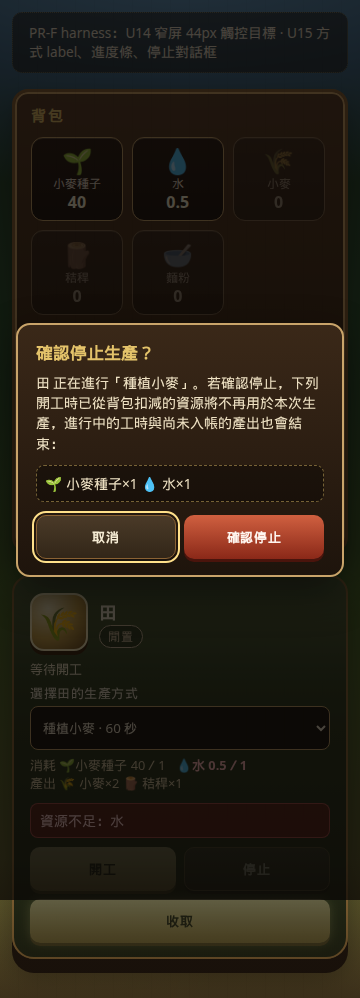
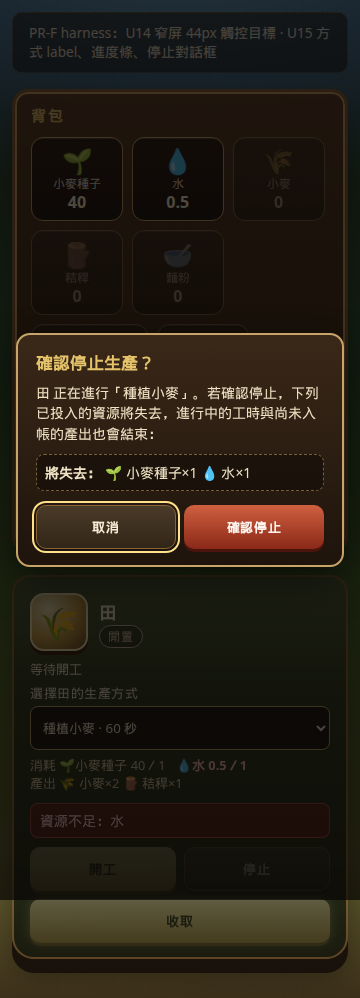
chore(web): stack tip cf2f53f PR screenshot captures and harness
Playwright captures at tip cf2f53f for draft PR comments (UX #4–#13, RL #15/#17, MK #18/#19).

Changed region(s): [[0.0306, 0.3106, 0.9472, 0.5902]]

diff --git a/apps/web/src/stack-tip-demo/main.tsx b/apps/web/src/stack-tip-demo/main.tsx
@@ -1,0 +1,185 @@
+import React, { StrictMode } from "react";
+import { createRoot } from "react-dom/client";
+import { BuildingCard } from "../components/BuildingCard";
+import { DepletionNotice } from "../components/DepletionNotice";
+import { TradingPostBuildingCard } from "../components/TradingPostBuildingCard";
+import { Inventory } from "../components/Inventory";
+import { DEMO_SERVER_REAL_TIME } from "../test/demoTime";
+import { hudGoldChipLabel } from "../market-feedback";
+import {
+  BRAND_DISPLAY_NAME,
+  BRAND_SUBTITLE,
+  GAME_TIME_CHIP_PREFIX,
+  OFFLINE_PROGRESS_HUD_CHIP,
+  timeScaleHudChip,
+} from "../productCopy";
+import { fmtGameClockChip } from "../format";
+import { buildingScrollAnchorId } from "../depletion-scroll";
+import "../style.css";
+import {
+  demoTradingPostBuilding,
+  demoWellBuilding,
+  depletedWithGoldInventory,
+  drawWaterMethod,
+  marketSnapshotGold10,
+} from "./fixtures";
+
+const shot = new URLSearchParams(window.location.search).get("shot") ?? "all";
+
+function HudGold10() {
+  return (
+    <header className="hud" data-shot-id="hud-gold">
+      <div className="crest">
+        <div className="crest-mark" aria-hidden>🌾</div>
+        <div>
+          <h1>{BRAND_DISPLAY_NAME}</h1>
+          <small>{BRAND_SUBTITLE}</small>
+        </div>
+      </div>
+      <div className="clock">
+        <span className="chip chip-muted">{fmtGameClockChip(86400, GAME_TIME_CHIP_PREFIX)}</span>
+        <span className="chip">{timeScaleHudChip(60)}</span>
+        <span className="chip chip-gold" data-testid="hud-gold-chip">
+          {hudGoldChipLabel(10)}
+        </span>
+        <span className="chip">{OFFLINE_PROGRESS_HUD_CHIP}</span>
+      </div>
+    </header>
+  );
+}
+
+function DepletionFullShot() {
+  return (
+    <div data-shot-id="depletion-ctas" data-screenshot-harness>
+      <HudGold10 />
+      <DepletionNotice
+        visible
+        onGoWell={() => undefined}
+        onGoSaveSeed={() => undefined}
+        onGoMarket={() => undefined}
+        marketCtaProminent
+      />
+      <Inventory inventory={depletedWithGoldInventory} />
+    </div>
+  );
+}
+
+function WellCardShot() {
+  return (
+    <div data-shot-id="well-card" data-screenshot-harness className="world">
+      <p className="banner banner-muted">水井建築卡 · 汲水方式（stack tip cf2f53f）</p>
+      <section className="settlement" style={{ maxWidth: 520, margin: "1rem" }}>
+        <BuildingCard
+          building={demoWellBuilding}
+          scrollAnchorId={buildingScrollAnchorId(demoWellBuilding.id)}
+          highlight
+          options={[drawWaterMethod]}
+          inventory={depletedWithGoldInventory}
+          selectedId={drawWaterMethod.id}
+          selected={drawWaterMethod}
+          timeScale={60}
+          serverRealTime={DEMO_SERVER_REAL_TIME}
+          pending={false}
+          onSelectMethod={() => undefined}
+          onStart={() => undefined}
+          onStop={() => undefined}
+          onCollect={() => undefined}
+        />
+      </section>
+    </div>
+  );
+}
+
+function TradingPostMarketShot() {
+  return (
+    <div data-shot-id="trading-post-market" data-screenshot-harness className="world">
+      <HudGold10 />
+      <section className="settlement" style={{ maxWidth: 640, margin: "1rem" }}>
+        <TradingPostBuildingCard
+          building={demoTradingPostBuilding}
+          highlight
+          marketOpen
+          onToggleMarket={() => undefined}
+          market={marketSnapshotGold10}
+          panelError={null}
+          pendingKeys={new Set()}
+          onSell={() => undefined}
+          onBuy={() => undefined}
+        />
+      </section>
+    </div>
+  );
+}
+
+function ScrollHighlightShot() {
+  return (
+    <div data-shot-id="scroll-highlight" data-screenshot-harness className="world">
+      <DepletionNotice
+        visible
+        onGoWell={() => undefined}
+        onGoSaveSeed={() => undefined}
+        onGoMarket={() => undefined}
+        marketCtaProminent
+      />
+      <section className="settlement" style={{ maxWidth: 920, margin: "1rem", gap: "1rem" }}>
+        <BuildingCard
+          building={demoWellBuilding}
+          scrollAnchorId={buildingScrollAnchorId(demoWellBuilding.id)}
+          options={[drawWaterMethod]}
+          inventory={depletedWithGoldInventory}
+          selectedId={drawWaterMethod.id}
+          selected={drawWaterMethod}
+          timeScale={60}
+          serverRealTime={DEMO_SERVER_REAL_TIME}
+          pending={false}
+          onSelectMethod={() => undefined}
+          onStart={() => undefined}
+          onStop={() => undefined}
+          onCollect={() => undefined}
+        />
+        <TradingPostBuildingCard
+          building={demoTradingPostBuilding}
+          highlight
+          marketOpen={false}
+          onToggleMarket={() => undefined}
+          market={marketSnapshotGold10}
+          panelError={null}
+          pendingKeys={new Set()}
+          onSell={() => undefined}
+          onBuy={() => undefined}
+        />
+      </section>
+    </div>
+  );
+}
+
+function Demo() {
+  const views: Record<string, () => React.ReactElement> = {
+    depletion: DepletionFullShot,
+    well: WellCardShot,
+    market: TradingPostMarketShot,
+    scroll: ScrollHighlightShot,
+  };
+
+  if (shot !== "all" && views[shot]) {
+    return views[shot]();
+  }
+
+  return (
+    <div className="world" data-screenshot-harness>
+      <DepletionFullShot />
+      <hr style={{ margin: "2rem 0", borderColor: "#444" }} />
+      <WellCardShot />
+      <hr style={{ margin: "2rem 0", borderColor: "#444" }} />
+      <TradingPostMarketShot />
+      <hr style={{ margin: "2rem 0", borderColor: "#444" }} />
+      <ScrollHighlightShot />
+    </div>
+  );
+}
+
+createRoot(document.getElementById("root")!).render(
+  <StrictMode>
+    <Demo />
+  </StrictMode>,
+);

diff --git a/apps/web/src/stack-tip-demo/fixtures.ts b/apps/web/src/stack-tip-demo/fixtures.ts
@@ -1,0 +1,58 @@
+import type { Building, InvRow, Method } from "../types";
+import { TRADING_POST_BUILDING_DEF_ID } from "../tradingPost";
+import { WELL_BUILDING_DEF_ID } from "../resource-loop-copy";
+import { defaultMarketSnapshotForTests } from "../test/marketFixture";
+
+export const drawWaterMethod: Method = {
+  id: "method_draw_water_default",
+  code: "method_draw_water_default",
+  ruleId: "rule_draw_water",
+  durationGameSec: 600,
+  inputs: [],
+  outputs: [{ item_id: "item_water", qty: 5 }],
+};
+
+export const demoWellBuilding: Building = {
+  id: "b_well_1",
+  status: "idle",
+  buildingDefId: WELL_BUILDING_DEF_ID,
+  buildingDef: { name: "水井", allowedRuleIds: ["rule_draw_water"] },
+  methodId: null,
+  queue: [],
+  bufferedOutputs: {},
+};
+
+export const demoTradingPostBuilding: Building = {
+  id: "pb_trading_post",
+  status: "idle",
+  buildingDefId: TRADING_POST_BUILDING_DEF_ID,
+  buildingDef: { name: "莊外商行", allowedRuleIds: [] },
+  methodId: null,
+  queue: [],
+  bufferedOutputs: {},
+};
+
+const item = (itemId: string, quantity: string, code: string): InvRow => ({
+  itemId,
+  quantity,
+  item: { code, layer: "T", derivedTier: 1 },
+});
+
+export const depletedWithGoldInventory: InvRow[] = [
+  item("item_gold", "10", "item_gold"),
+  item("item_seed_wheat", "0", "seed_wheat"),
+  item("item_water", "0", "water"),
+  item("item_wheat", "2", "wheat"),
+  item("item_bread", "1", "bread"),
+];
+
+export const marketSnapshotGold10 = defaultMarketSnapshotForTests({
+  gold: 10,
+  holdings: {
+    item_gold: 10,
+    item_bread: 1,
+    item_seed_wheat: 0,
+    item_water: 0,
+    item_wheat: 2,
+  },
+});

diff --git a/apps/web/stack-tip-demo.html b/apps/web/stack-tip-demo.html
@@ -1,0 +1,12 @@
+<!doctype html>
+<html lang="zh-Hant">
+  <head>
+    <meta charset="UTF-8" />
+    <meta name="viewport" content="width=device-width, initial-scale=1.0" />
+    <title>Stack tip cf2f53f screenshot demo</title>
+  </head>
+  <body>
+    <div id="root"></div>
+    <script type="module" src="/src/stack-tip-demo/main.tsx"></script>
+  </body>
+</html>
